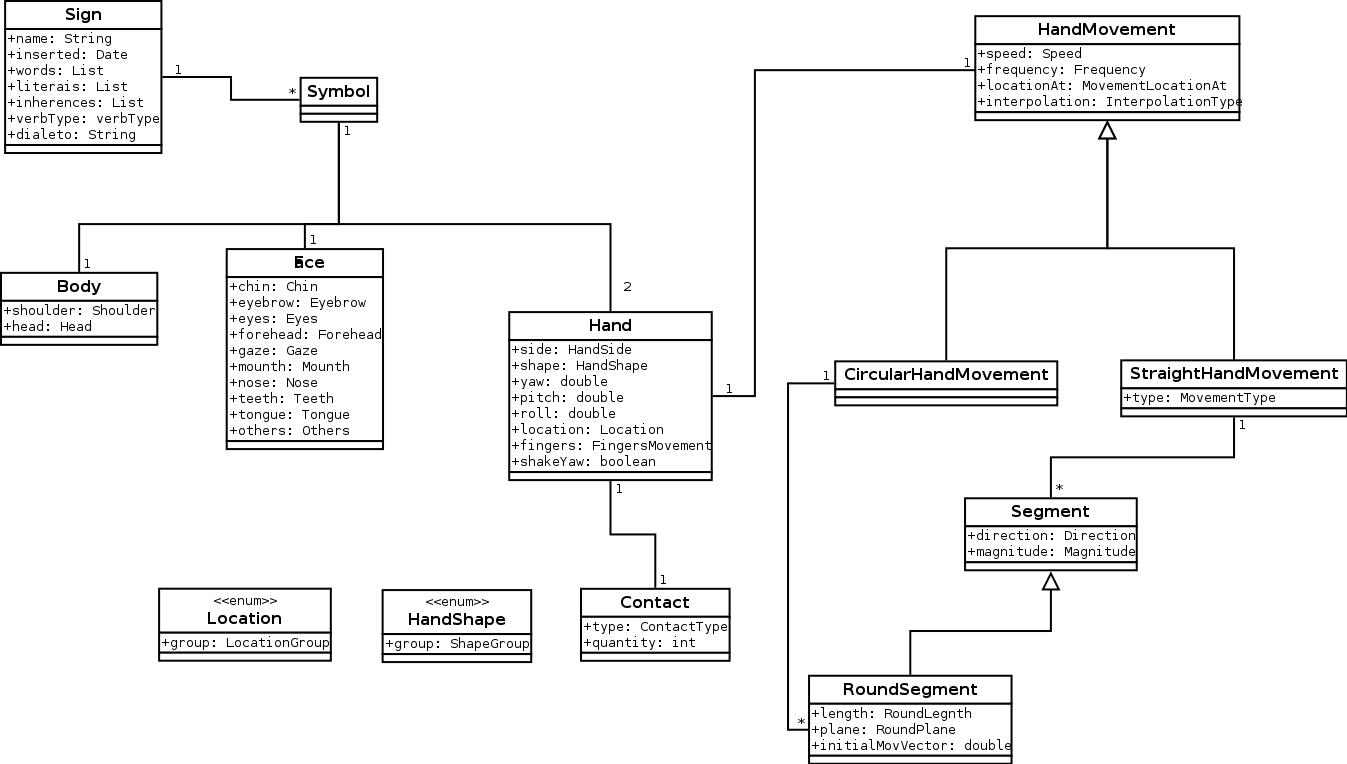
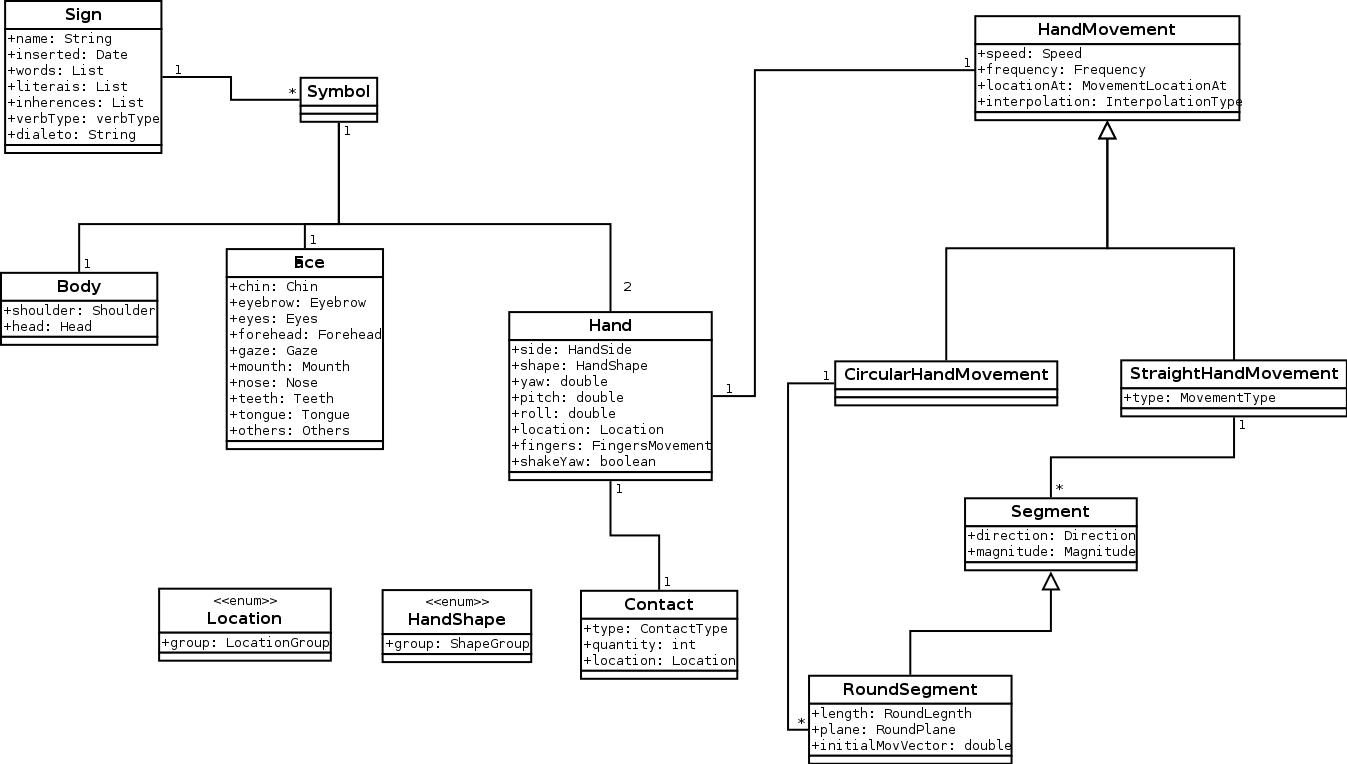
melhorando descrição do sign model 2.0

Changed region(s): [[0.4365, 0.6924, 0.5612, 0.9031]]

diff --git a/doc/sign-model2.md b/doc/sign-model2.md
@@ -17,7 +17,7 @@ A seguir segue os pontos levantados na análise seguidos de um diagnóstico no m
 
 * **Munheca**. Bastante usado no Sign Writing, mas não necessário no modelo, pois pode ser sempre resolvido por composição de símbolos. Exemplo: sinal ONTEM no Sign Writing tem um movimento pra cima munhecado, mas pode ser representado por um símbolo BLACK-HORIZONTAL seguido de um BLACK-VERTICAL. 
 
-* **Firmeza**. Utilizado no sinal PODE. Ainda não achei um outro exemplo. Será implementado por um tipo específico de interpolação no HandMovement?. A interpolação poderia ser de cada segmento, mas por hora achamos que seria exagero. 
+* **Firmeza**. Utilizado no sinal PODE. Ainda não achei um outro exemplo. Será implementado por um tipo específico de interpolação no HandMovement. A interpolação poderia ser de cada segmento, mas por hora achamos que seria exagero. 
 
 * **Refinamento de ângulos**, assim como já temos INCLINADO para a rotação, poderíamos ter também para plano e orientação. Mas pelos sinais estudados, creio que este problema será melhor endereçado pela propriedade "tremida". 
 
@@ -39,19 +39,21 @@ A seguir segue os pontos levantados na análise seguidos de um diagnóstico no m
 
 * **Mãos em unidade**: na verdade indica somente que a mão não-dominante também vai ao ponto de locação, o que tem mais sentido para os sinais sem movimento. Como é um atributo confuso, poderia ser alterado jogando a locação para mão, mas o que permitiria inconsistência, já que a mão não-dominante ou vai pro mesmo lugar que a dominante, ou fica parada. Dessa forma, vou deixar como estar. 
 
-* **Mãos sobre-postas**. Em alguns sinais é preciso indicar qual mão está sobre outra para evitar ambiguidade. ex: DE NADA. Deve ser um atributo do símbolo, e só faz sentido se houver contato entre as mãos. 
+* **Mãos sobre-postas**. Em alguns sinais é preciso indicar qual mão está sobre outra para evitar ambiguidade. ex: DE NADA. Poderia ser um atributo do símbolo, e que só faria sentido se houvesse contato entre as mãos. Mas agora que temos os Locations mais refinados (para mão e para contato), talvez esse atributo não seja necessário. Exemplo, no sinal DE NADA, temos a mão direita e a mão esquerda com locação no ESPACO_NEUTRO_DIREITO, e a mão direita tem contato do tipo ESFREGAR na locação PALMA_DA_MAO_ESQUERDA.
 
 * **Contato esfregar**. Deve ser usado no modelo pra representar um ligeiro movimento circular sobre um contato. Em alguns lugares na apostila é usado como uma espécie de "contato contínuo durante o movimento", mas vamos evitar esse sentido; nesse último caso usar o contato normal. 
 
 * **Marcas de alternado e simultâneo**, bastante presentes no Sign Writing, mas desnecessárias em nosso modelo, pois especifica-se precisamente o movimento de cada mão de forma independente. 
 
-* **Mão esquerda sendo utilizada** não será mais representado por HandsInUnit?, mas sim por LeftHandResting?. 
+* **Mão esquerda sendo utilizada** não será mais representado pelo modelo. Caso não haja mão esquerda, rightHand == null denota essa situação de forma inequívoca.
 
 * **Movimento oscilatório dos dedos**, como em MAR. Seria a enumeração PROXIMAIS_ABREM_E_FECHAM_ALTERNADAMENTE, mas pode ser interessante mudar o nome deste enum. Opção: OSCILAM, ou MOVEM_SE_ALTERNADAMENTE. 
 
 * **Divisão das locações**, em direito e esquerdo, como OMBRO_DIREITO/OMBRO_ESQUERDO, TESTA_DIREITA/TESTA_ESQUERDA, ESPACO_NEUTRO_DIREITO/ESPACO_NEUTRO_ESQUERDO 
 
-* **Locação do contato**. Apesar de o modelo conseguir representar o contato em muitos sinais, não é possível indicar que o sinal ocorre no ESPACO_NEUTRO e que há contato com outra parte do corpo ao mesmo tempo. 
+* **Locação do contato**. Apesar de o modelo conseguir representar o contato em muitos sinais, não é possível indicar que o sinal ocorre no ESPACO_NEUTRO e que há contato com outra parte do corpo ao mesmo tempo. Por isso é preciso distinguir a locação do símbolo da locação do ponto de contato, mesmo que haja coincidência na maioria das vezes.
+
+* **Locação própria de cada mão**. No primeiro símbolo do sinal PAGAR, a mão esquerda tem locação ESPACO_NEUTRO_DIREITO, enquanto que a mão direita tem locação ORELHA. Para conseguirmos representar isso é preciso com que Locação seja propriedade da mão, e não do símbolo. Mesmo problema em PEDAGOGIA.
 
 * **Movimento alternado dos dedos**, em PLANETA_TERRA, é necessário uma nova movimentação dos dedos para representar que eles estão fechando um por um a partir do dedo mínimo. 
 
@@ -59,31 +61,21 @@ A seguir segue os pontos levantados na análise seguidos de um diagnóstico no m
 
 * **Agarrar**, presente no sinal CAMISA, onde a mão deve agarrar a camisa. 
 
-* **Locação própria de cada mão**, em alguns sinais, enquanto uma mão está localizada em uma posição, a outra está em uma posição diferente, como ocorre com PEDAGOGIA 
-
-* **Location no Contact**, para melhor indicar em que local a mão direita realizará o contato 
-
-* **Sinais difíceis**: ANO (movimento circular no espaço neutro), LIBERDADE (posição inicial das mãos não pode ser representado), PELEJAR (posição final das mãos difícil de ser representado), RACIOCINAR (posição das mãos durante o movimento difícil de ser representado), MECANICO (as duas mãos apresentam movimento circular alternado no espaço neutro) 
-
 Alterações aplicadas
 --------------------
 
-**Symbol**
-
-* **handOver**: indica qual mão está por cima, e só faz sentido quando as duas mãos estão juntas (mãos em unidade) 
-
-* **LeftHandResting**: mão esquerda não estará sendo utilizada durante a representação do sinal. 
-
 **Hand**
+
+* yaw, pitch e roll são salvos como double pq são ângulos (em radianos ou graus? acho q graus pq é oq é usados nas libs 3D, neh?).
 
 * **shakeYaw**: para Ç e OUTUBRO 
 
 * **FingersMovement**
 
-    * Proximais abrem e fecham alternadamente virou Oscilam 
-    * Se esfregam adicionado 
+    * "Proximais abrem e fecham" alternadamente virou Oscilam 
+    * "Se esfregam" adicionado 
     * Location no Contact adicionado 
-    * Proximais fecham alternadamente adicionado 
+    * "Proximais fecham alternadamente" adicionado 
 
 * **HandMovement**
 
@@ -118,6 +110,19 @@ Como criamos uma herança, é preciso pensar no JPA de Segment e RoundSegment .
    * Movimento dos ombros: atributo shoulder em Body.
    * Movimento de cabeça: atributo head em Body.
 
+* **Mais enumerações**
+
+   * queixo vira queixo direito, queixo esquerdo, queixo
+   * espaço neutro vira espaço neutro, espaço neutro direito, espaço neutro esquerdo
+   * TESTA_DIREITA / TESTA_ESQUERDA
+   * OMBRO_DIREITO / OMBRO_ESQUERDO
+   * QUADRIL
+   * BUSTO_DIREITO / BUSTO_ESQUERDO
+   * PROXIMAIS_FECHAM_ALTERNADAMENTE
+
+Obs: provavelmente as locações do grupo MAO só façam sentido pra especificar o ponto de contato, e não as locações das mãos.
+Mas todas as outros valores de Location serviriam para locações e pontos de contato.
+
 Diagrama de classes do Sign Model 2.0
 -------------------------------------
 
@@ -131,8 +136,17 @@ Exemplos de sinais modelados:
 
 https://github.com/poli-libras/sign-model/tree/master/doc/sinais
 
-Pontos não contemplados
+Sinais ainda não contemplados pelo modelo
 -----------------------
 
-...
+* FLORESTA (ponto de contato é entre ombro e mão, e não entre mãos)
+* RIO DE JANEIRO (locação do contato perdura por dois símbolos)
+* ANO (movimento circular no espaço neutro)
+* LIBERDADE (posição inicial das mãos não pode ser representado) 
+* PELEJAR (posição final das mãos difícil de ser representado) 
+* RACIOCINAR (posição das mãos durante o movimento difícil de ser representado)
+* MECANICO (as duas mãos apresentam movimento circular alternado no espaço neutro) 
+* PIZZA (dá pra aproximar, desconsiderando o contato entre os dados no fim do sinal)
+* ANO (???)
+
 
